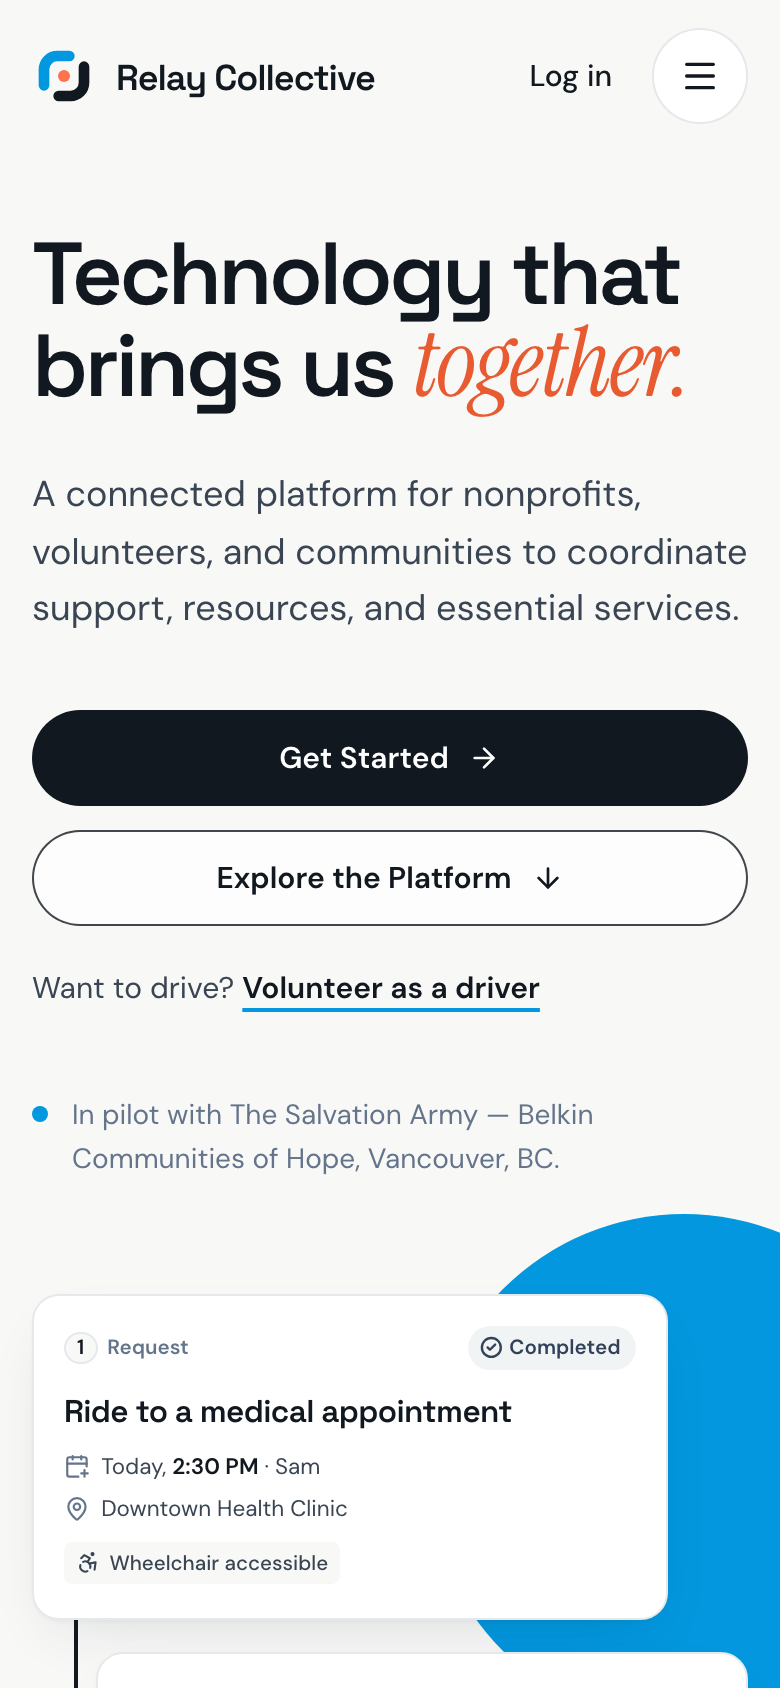
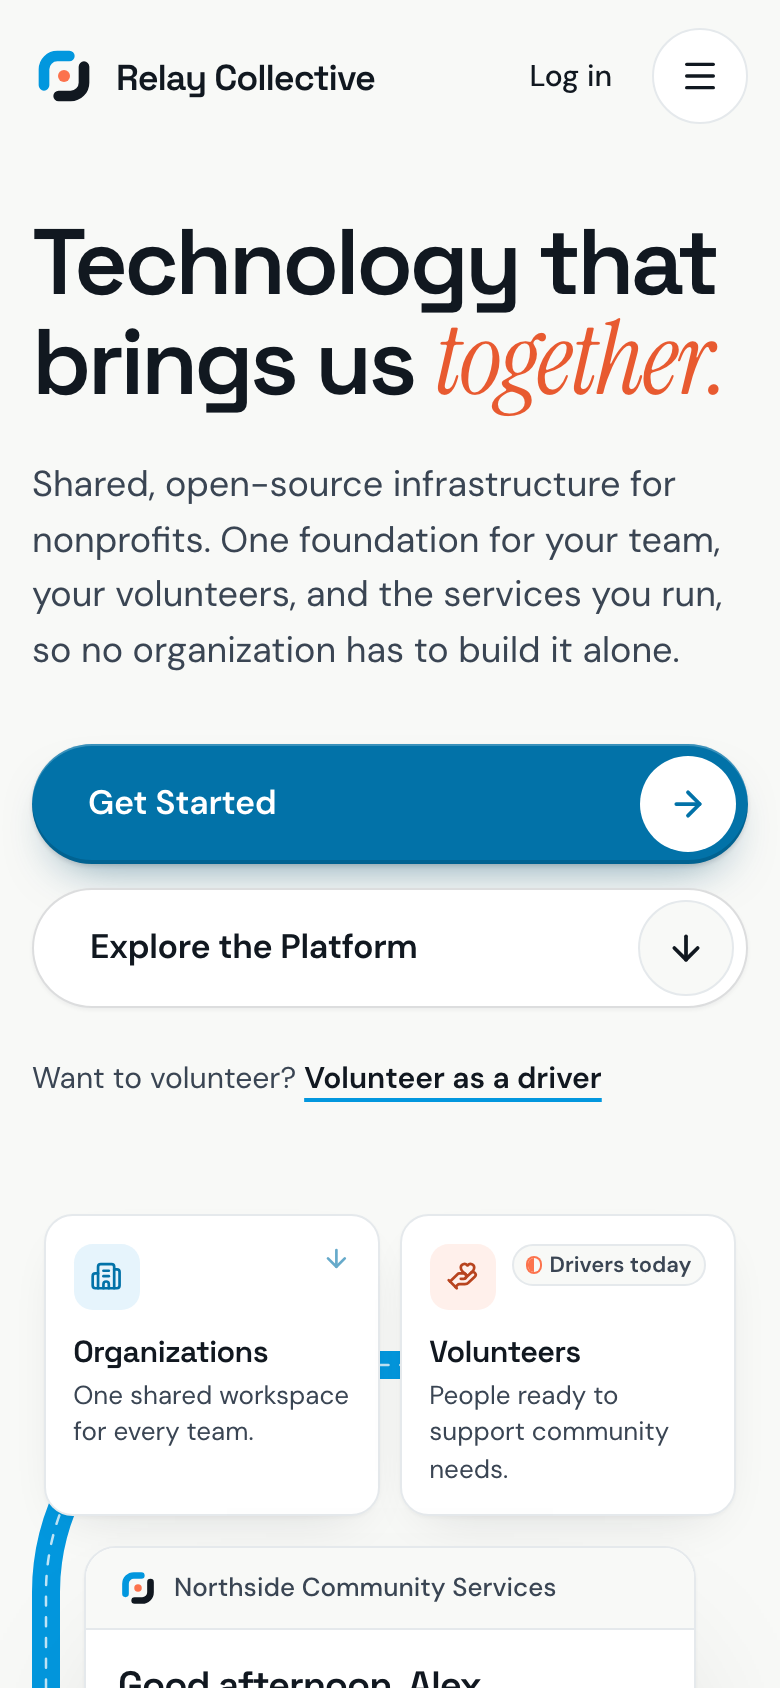
Updated README

diff --git a/README.md b/README.md
@@ -5,19 +5,19 @@
 <h3 align="center">Shared digital infrastructure for nonprofits.</h3>
 
 <p align="center">
-  Relay Collective connects nonprofit organizations, volunteers, and community resources, making it easier to coordinate services, collaborate across organizations, and reach the people who need support.
+  Relay Collective is shared, open-source infrastructure that connects nonprofit organizations, volunteers, and community resources: one foundation for your team, your volunteers, and the services you run, so no organization has to build it alone.
 </p>
 
 <p align="center">
   <a href="https://relay-collective.relay-collective.workers.dev/"><img alt="Visit the website" src="https://img.shields.io/badge/Visit_the_website-0297DE?style=for-the-badge&logo=googlechrome&logoColor=white" /></a>
-  <a href="https://relay-collective.relay-collective.workers.dev/demo"><img alt="Walk through the transportation app" src="https://img.shields.io/badge/Transportation_app_tour-111820?style=for-the-badge&logo=googleslides&logoColor=white" /></a>
+  <a href="https://relay-collective.relay-collective.workers.dev/demo"><img alt="Tour the first module: transportation" src="https://img.shields.io/badge/Tour_the_first_module-111820?style=for-the-badge&logo=googleslides&logoColor=white" /></a>
   <a href="docs/DEVELOPMENT.md#run-locally"><img alt="Run it locally" src="https://img.shields.io/badge/Run_it_locally-FC734D?style=for-the-badge&logo=npm&logoColor=white" /></a>
 </p>
 
 <p align="center">
   <img alt="Born at HACKVAN 2026" src="https://img.shields.io/badge/born_at-HACKVAN_2026-111820?style=flat-square" />
   <img alt="Pilot partner: The Salvation Army" src="https://img.shields.io/badge/pilot_partner-The_Salvation_Army-FC734D?style=flat-square" />
-  <img alt="Transportation module: working today" src="https://img.shields.io/badge/transportation-working_today-0297DE?style=flat-square" />
+  <img alt="Shared foundation and transportation: working today" src="https://img.shields.io/badge/foundation_%2B_transportation-working_today-0297DE?style=flat-square" />
   <img alt="Web and Android" src="https://img.shields.io/badge/web_%2B_android-responsive-0272A8?style=flat-square" />
   <img alt="Version 1.6" src="https://img.shields.io/badge/version-1.6-111820?style=flat-square" />
   <img alt="MIT License" src="https://img.shields.io/badge/license-MIT-0297DE?style=flat-square" />
@@ -26,32 +26,32 @@
 <br />
 
 <p align="center">
-  <img src="docs/images/home.png" alt="The Relay Collective website: 'Technology that brings us together.' beside one ride playing out in the app, from a staff request to a volunteer driver confirming and the ride being completed." width="76%" />
+  <img src="docs/images/home.png" alt="The Relay Collective website: 'Technology that brings us together.' beside the Relay Loop, a track that links an organization's workspace to Organizations, Volunteers, Transportation, Community impact, and the planned Resource sharing module." width="76%" />
   &nbsp;
   <img src="docs/images/mobile.png" alt="The Relay Collective website on a phone." width="21%" />
 </p>
 
-## 🧩 What we're building
+## What we're building
 
-One shared foundation, with services on top. Transportation is working today. Everything else builds on the same accounts, roles, and requests.
+Every nonprofit rebuilds the same tools. We'd rather build them once. Relay Collective is one open foundation, with modules on top: every module runs on the same accounts, roles, and requests. Transportation is the first, and it works today.
 
-| Service | What it does | Status |
+| Part | What it does | Status |
 | --- | --- | --- |
-| **Transportation** | Staff request a ride for someone they support, a verified driver accepts it, and it stays in view until drop-off. | Working today |
+| **Shared foundation** | Organization workspaces, invitations and teams, join requests, role-based access, and requests with status. Built once, shared by everyone. | Working today |
+| **Transportation** | The first module. Staff request a ride for someone they support, a verified driver accepts it, and it stays in view until drop-off. | Working today |
 | **Volunteer coordination** | Connects volunteers with the organizations that need them. | Drivers today, more roles planned |
-| **Organization management** | Teams, members, invitations, join requests, and role-based access in one workspace. | Working today |
-| **Expanding services** | Resource sharing and cross-organization services, on the same foundation. | Planned |
+| **Next modules** | Resource sharing and cross-organization services, each starting from what the others already proved. | Planned |
 
 <p align="center">
-  <img src="docs/images/platform.png" alt="One foundation, many services: Transportation (working today), Volunteer coordination (drivers today, more roles planned), Organization management (working today), and Expanding services (planned), all built on a shared foundation of organizations, roles, and requests." width="100%" />
+  <img src="docs/images/platform.png" alt="One foundation, many services: the Shared foundation (organization workspaces, invitations and teams, role-based access, requests and status; working today), Transportation (working today), Volunteer coordination (drivers today, more roles planned), and Next modules (planned)." width="100%" />
 </p>
 
 ### One workspace for the whole team
 
-Organizations sign in to one workspace: what needs attention, every request in flight, and the services they use, in one view.
+Every organization shares the same workspace: its people, every open request, and what needs attention next, whichever module it came from.
 
 <p align="center">
-  <img src="docs/images/workspace.png" alt="The organization workspace: requests that need attention, upcoming rides with their status, and a single ride followed from request to drop-off. Illustrative demo data." width="100%" />
+  <img src="docs/images/workspace.png" alt="The organization workspace: a request that needs attention, open requests with their status, and 'Your people' with admin, staff, and volunteer driver roles and a pending invite. Illustrative demo data." width="100%" />
 </p>
 
 ## Our story
@@ -60,7 +60,7 @@ Relay Collective started as a hackathon project at **FaithTech HACKVAN 2026**, d
 
 Working alongside people on the front lines showed us where the barriers really are. Our first focus became clear: making **transportation** more accessible, reliable, and inclusive, because getting there is so often the first barrier between a person and the help that already exists.
 
-That project has since grown into a long-term initiative. Transportation is where we started, but it isn't where we stop: we're building toward a broader collaboration platform where nonprofits can share resources, coordinate volunteers, and work together to serve their communities.
+That project has since grown into a long-term initiative. Transportation is where we started, but it isn't where we stop: it's the first module on a shared, open-source foundation where nonprofits can share resources, coordinate volunteers, and work together to serve their communities. What one organization helps build, every other one can use.
 
 Relay Collective is an independent platform. The Salvation Army is our partner, not our owner.
 
